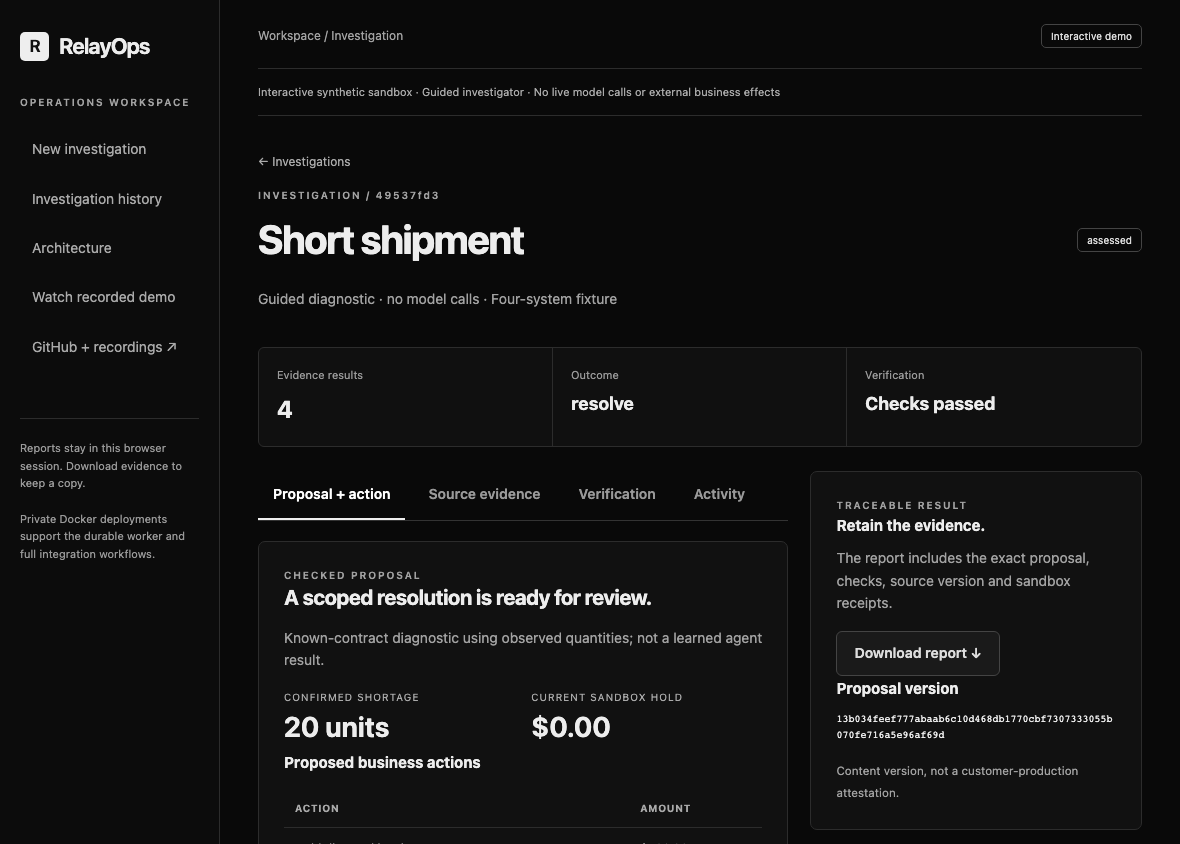
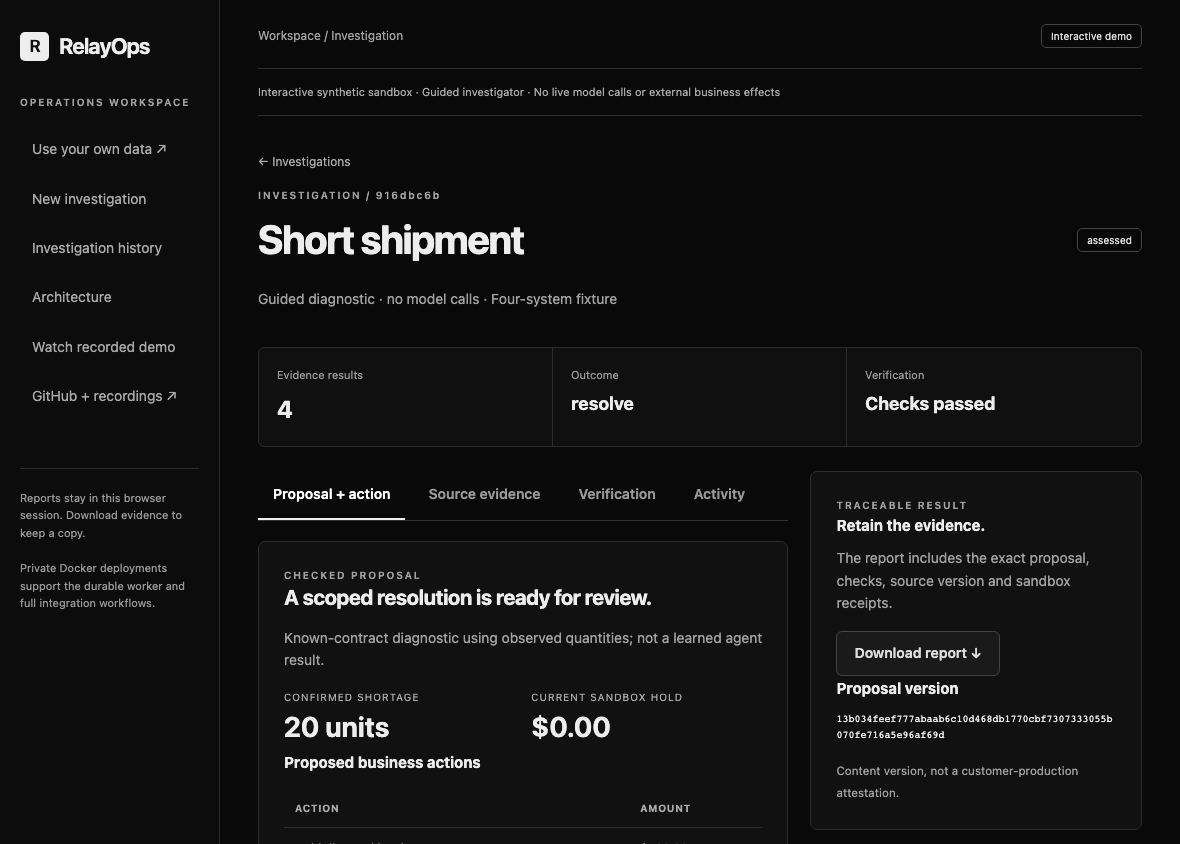
docs(product): document workflows and record actual product journeys

diff --git a/docs/product/PRODUCT-WORKSPACE.md b/docs/product/PRODUCT-WORKSPACE.md
@@ -1,0 +1,42 @@
+# RelayOps product workspace
+
+The public product offers a real source-to-result journey. The original guided synthetic application remains at `/demo`; its sample datasets and history are separate. [Own-data contract](USER-DATA.md).
+
+## Pages and workflow
+
+`/` is the public landing. `/workspace` starts with actual empty state and reflects only deliberately saved work. `/uploads` guides source, rules, confirmation and execution. `/workspace/projects`, `/workspace/history`, `/workspace/settings`, `/workspace/guide` and `/workspace/login` provide organization, recovery and honest account status. Individual saved snapshots have stable detail URLs.
+
+Source case CSV → inspect rows and column quality → map order/quantity/price/delivery/stock fields → confirm the open-case contract → observed LangGraph assessment stages → triage proposed outcomes → independent shared-stock/state checks → separately approve the exact source and plan → download checked changes and effect receipts.
+
+Only open, previously unprocessed short-shipment cases; exclude existing holds, reservations and claims. Shared stock is allocated by sorted order ID, with consistent initial availability per pool. Unknown evidence or insufficient stock withholds changes. The real LangGraph uses its known DiagnosticPlanner, with no live inference. Approval is a separate visitor/source/plan-bound expiring envelope; approval recomputes on disposable worlds. Exports represent checked snapshot changes, never connected ERP or payment writes. Saved/downloaded reports omit the transient approval token; reopening an unapproved assessment requires reassessment before fresh approval. Historical approved exports remain downloadable evidence.
+
+## Progress, integrity and recovery
+
+`POST /api/uploads/analyze-stream` publishes actual running/completed callbacks and exactly one terminal result or problem. It supplies no synthetic percentage. Stopping the browser wait does not claim to kill a running bounded read-only thread. Structured errors identify source record/column; selected-record preview can inspect errors beyond the first page. File contents render as text. JSON and CSV exports contain actual source-derived results, with formula-safe text exports.
+
+A purpose-specific HMAC authenticates report contents and their past computation time. Before reopening or restoring a completed snapshot, the browser checks source fingerprint, contract equality and server report authentication. Altered or stale receipts return to review instead of acquiring a verified badge. Receipt authentication is not a current warehouse check or proof that the declared business rules are correct. Stable signing keys must be consistent across deployment instances; rotation deliberately invalidates older receipts.
+
+## Deliberate device storage
+
+Unsaved source and results remain in browser memory and bounded request/temporary processing. Explicit save consent enables IndexedDB projects and immutable source/rule/report snapshots in this browser. Every edited rerun saves a new ID; prior results remain. Atomic writes enforce 20 projects and 50 device snapshots. Browser cleanup may remove local work. Clear active work and delete saved history are separate, confirmed actions. Do not upload unnecessary confidential fields.
+
+Settings exports a portable JSON backup. Restore needs fresh consent, validates the complete bundle, reparses each source and checks completed report receipts before one atomic import. New IDs avoid overwriting existing snapshots. This is manual transfer between browsers/Macs, not automatic cloud synchronization. Backups themselves contain source business data; store them accordingly.
+
+## Optional cloud accounts
+
+Cloud accounts default to an explicit unavailable state. The prepared adapter requires HTTPS `RELAY_SUPABASE_URL` and a genuine publishable/anon `RELAY_SUPABASE_PUBLISHABLE_KEY`; service/admin keys are refused. `RELAY_ACCOUNT_SIGNUP=1` enables self-registration only when intentionally configured. The actual [migration](../../infrastructure/supabase/migrations/001_product_workspace.sql) supplies owner-isolated immutable project/investigation tables, forced RLS, owner-project foreign keys and serialized per-owner quotas. Apply it to the intended provider before enabling the adapter.
+
+Identity is validated server-side with the provider. HttpOnly host/session cookies carry provider sessions; PostgREST receives the user's token rather than an admin credential. Cloud saves need consent; source retention is a separate opt-in. Completed results are recomputed or authenticated by the server, never trusted from a client flag. Source omission requires a matching re-upload to rerun. Signup/email/real hosted login, refresh and backups remain unverified until a real provider is configured and rehearsed.
+
+`RELAY_REPORT_SIGNING_KEY` is the private purpose-specific signing setting (at least 48 characters). Relay may use its existing stable RELAY_DEMO_SECRET fallback. Never commit secrets.
+
+## Implementation and validation
+
+Product frontend: `frontend/apps/product/`. Backend account boundary: `backend/src/relayops/product/`. Upload processing stays in `uploads/`. The product reuses this workspace's owned VerifyOps storage/HTTP patterns, with domain-specific frontend and analytical/operational contracts.
+
+- `scripts/demos/product_browser.py`: real Chromium file upload, reviewed rules, exports, device snapshots/reload, tamper denial, backup restore, network recovery, keyboard dialogs/tabs, mobile sizes and optional pinned axe audits. `uploads_browser.py` delegates to this complete journey.
+- `backend/tests/api/test_product.py`: provider-verified identity, consent, owner-scoped access and redacted error contracts with a controlled provider transport. These are not hosted-auth proofs.
+- `backend/tests/api/test_product_evidence.py`: actual SSE terminal behavior, nested-report tamper/key rotation, precise invalid-cell errors and selected late-record preview. Transient approval removal must preserve past receipt integrity.
+- `scripts/checks/product_rls.py`: applies the actual migration to its own random disposable PostgreSQL database, exercises two owners, anonymous/spoof/update denial and concurrent quota enforcement, then drops only that owned database. Requires an explicit test administrative URL.
+
+Automated rehearsals are not actual customer feedback or a production reliability certification. Live-model benchmarks, hosted tenant operations and monitored durable cloud workers remain release gates. Canonical app: https://relayops-two.vercel.app/.

diff --git a/docs/product/USER-DATA.md b/docs/product/USER-DATA.md
@@ -25,7 +25,7 @@ Review displays exact proposed actions and independently checked simulations. Ap
 - At most 30 rows per analysis; at most 100 aggregate result groups. Each numeric source value is at most 100 million in magnitude; RelayOps also enforces its existing ten-million action bound.
 - The browser reads a selected file and transmits its CSV text inside bounded JSON. An outer ASGI middleware counts actual streamed bytes before JSON decoding, rejects bodies over 1 MB and limits body reception to 15 seconds. No multipart package is necessary.
 - Parsing/analysis run in FastAPI's synchronous handler thread pool, outside the event loop. This does not provide global admission control across serverless instances.
-- Processing uses memory and, for operational worlds, automatically cleaned temporary scratch. Original rows/results are not deliberately persisted in shared history, application logs, browser local storage or session storage. Browser files/results disappear on reload or Clear. Hosting providers may retain request metadata; this is not a confidential-data hosting certification.
+- Processing uses memory and, for operational worlds, automatically cleaned temporary scratch. Original rows/results are not deliberately persisted in shared history, application logs, browser local storage or session storage by default. Explicit device save uses IndexedDB, and configured cloud save requires separate consent. Unsaved browser files/results disappear on reload or Clear. Explicit consent now enables immutable IndexedDB snapshots and portable backups; see [product storage](PRODUCT-WORKSPACE.md). Hosting providers may retain request metadata; this is not a confidential-data hosting certification.
 - User content is rendered with text nodes, never HTML. CSV exports neutralize formula-like text while preserving typed numeric negatives. Filenames never become server filesystem paths. No uploaded code, external URLs, extensions or arbitrary SQL are executed.
 - Live generation, tenant identity, persistent connector credentials, durable uploaded datasets, asynchronous large-file jobs and monitored customer execution are separate release gates.
 
@@ -33,6 +33,6 @@ The app's limits remain below [Vercel's request/response payload limit](https://
 
 ## Endpoints
 
-`GET /api/uploads/capabilities`, `GET /api/uploads/template`, `POST /api/uploads/profile`, `POST /api/uploads/analyze`, and `POST /api/uploads/approve` for the exact reviewed RelayOps export. The narrow public upload allowlist does not enable legacy state-changing operator endpoints. Every analysis request includes the original CSV and explicit mapping/options. API responses are not cached.
+`GET /api/uploads/capabilities`, `GET /api/uploads/template`, `POST /api/uploads/profile`, `POST /api/uploads/analyze`, `POST /api/uploads/preview`, `POST /api/uploads/analyze-stream`, `POST /api/uploads/check-report`, and `POST /api/uploads/approve` for the exact reviewed RelayOps export. The narrow public upload allowlist does not enable legacy state-changing operator endpoints. Every analysis request includes the original CSV and explicit mapping/options. API responses are not cached.
 
 See the implementation's `uploads` package and `backend/tests/api/test_uploads.py` for independently authored expected values, changed-input, validation and isolation regressions. Local/deployed verification is recorded in the project handoff after it actually runs.

diff --git a/README.md b/README.md
@@ -1,6 +1,6 @@
 <p align="center"><img src="docs/assets/branding/relayops-banner.svg" alt="RelayOps — Workflow execution" width="100%"></p>
 
-**Use your own data:** [Open the CSV workspace](https://relayops-two.vercel.app/uploads) · [Contracts, verification and data handling](docs/product/USER-DATA.md). Upload, map columns, review business rules, and download checked source-derived results. Public processing is contract-driven; live model interpretation remains unavailable.
+**Use your own data:** [Open RelayOps](https://relayops-two.vercel.app/) · [Start with your CSV](https://relayops-two.vercel.app/uploads) · [Product walkthrough and storage](docs/product/PRODUCT-WORKSPACE.md). Guided source/rule review, observed execution stages, independently checked results, consented device projects/history and portable backups. Approve checked snapshot changes separately; no external business writes.
 
 <p align="center"><a href="https://github.com/Akhilesh-Vangala/relayops/actions/workflows/checks.yml"><img src="https://github.com/Akhilesh-Vangala/relayops/actions/workflows/checks.yml/badge.svg" alt="Required engineering checks"></a> &nbsp; Python · LangGraph · FastAPI · PostgreSQL</p>
 
@@ -18,6 +18,10 @@ Resolve a supplier short shipment across procurement, warehouse, billing and cas
 <a id="see-the-workbench"></a>
 
 ## Run the workflow
+
+![RelayOps actual own-data product result](docs/assets/demos/product-report.png)
+
+[Watch the actual upload walkthrough](https://relayops-two.vercel.app/uploads/recording.html) · [Product architecture and validation](docs/product/PRODUCT-WORKSPACE.md). The original guided synthetic agent demonstration follows; neither recording claims live inference.
 
 <picture>
   <source media="(prefers-reduced-motion: reduce)" srcset="docs/assets/demos/relayops-interactive-poster.png">

diff --git a/docs/project/HANDOFF.md b/docs/project/HANDOFF.md
@@ -1,4 +1,8 @@
-# Active: visitor-owned CSV workspaces
+# Active: complete own-data product workspace
+
+RelayOps now has domain-specific landing/workspace, source/rule review, real streamed execution, results/evidence, consented immutable device projects/history and portable restore. Exact-source approval remains separate from assessment; saved previews need reassessment before fresh approval. Optional account adapter/RLS is prepared and locally tested; genuine hosted authentication is not configured. Protected CI, source-bound deployment and media checks must pass before release is marked delivered. See [product documentation](../product/PRODUCT-WORKSPACE.md).
+
+# Prior increment: visitor-owned CSV workspaces (superseded by product workspace)
 
 Implementation adds `/uploads`, bounded own-data APIs, exact mapping/contracts, source-derived independently reconciled outputs and evidence exports. RelayOps retains exact-source human approval before export. Local verification: 71 tests with 3 environment-dependent skips, actual file-picker/checked-result/download/mobile/Clear/invalid-file browser journeys, plus refreshed original sample recordings. Protected CI and deployment checks are required before production promotion. Existing release-gate limitations remain. See [contracts](../product/USER-DATA.md).
 

diff --git a/docs/project/PROGRESS.md b/docs/project/PROGRESS.md
@@ -1,3 +1,7 @@
+# October15 product workspace verification
+
+Implemented and locally verified RelayOps product landing, guided own-data source/rules/results, real observed stages, explicit immutable device projects/history, backup restore and signed saved-report checks. 85 native tests, including actual PostgreSQL queue/recovery cases; 16 private-workbench browser checks; 12 grouped product checks and 14 axe views pass. Both actual owner-RLS/concurrent quota checks pass in disposable PostgreSQL. Recordings use current source and real browser pixels. Publication must use protected required CI and exact-source deployment verification; these local checks do not establish hosted Auth, live-model quality, real users or monitored durable operations. See [product implementation](../product/PRODUCT-WORKSPACE.md). Existing release gates and history below remain applicable.
+
 # RelayOps progress and evidence
 
 ## October 15 — Repository organization and demo refresh

diff --git a/docs/project/PLAN.md b/docs/project/PLAN.md
@@ -1,3 +1,7 @@
+# October15 product workspace verification
+
+Implemented and locally verified RelayOps product landing, guided own-data source/rules/results, real observed stages, explicit immutable device projects/history, backup restore and signed saved-report checks. 85 native tests, including actual PostgreSQL queue/recovery cases; 16 private-workbench browser checks; 12 grouped product checks and 14 axe views pass. Both actual owner-RLS/concurrent quota checks pass in disposable PostgreSQL. Recordings use current source and real browser pixels. Publication must use protected required CI and exact-source deployment verification; these local checks do not establish hosted Auth, live-model quality, real users or monitored durable operations. See [product implementation](../product/PRODUCT-WORKSPACE.md). Existing release gates and history below remain applicable.
+
 # RelayOps delivery gates
 
 ## Repository organization increment — October 15, 2026

diff --git a/docs/DEMO.md b/docs/DEMO.md
@@ -1,3 +1,7 @@
+# Current product recording
+
+The [upload walkthrough](demos/uploads-recording.json) now records the complete product journey: real file selection, source preview, reviewed definition, executed independently checked results, exports, explicit device save and saved history. [Product result screenshot](assets/demos/product-report.png). This is one continuous Chromium capture using authored test data, with readable pauses; it is not customer feedback or live-model inference. The original guided sample recording remains distinct below. Previous capture manifests are retained under `docs/demos/history/`.
+
 # RelayOps recorded demonstration
 
 [Open the working app](https://relayops-two.vercel.app/demo) · [Watch the continuous recording](https://relayops-two.vercel.app/demo/recording) · [Download the WebM](../frontend/apps/demo/assets/media/walkthrough.webm) · [Capture/source manifest](demos/interactive-recording.json)

diff --git a/docs/README.md b/docs/README.md
@@ -1,3 +1,5 @@
+[Product pages, storage and verification](product/PRODUCT-WORKSPACE.md) · [Own-data business contract](product/USER-DATA.md)
+
 # RelayOps technical documentation
 
 [Project overview](../README.md) · [Working app](https://relayops-two.vercel.app/demo) · [Recorded demo](DEMO.md)
